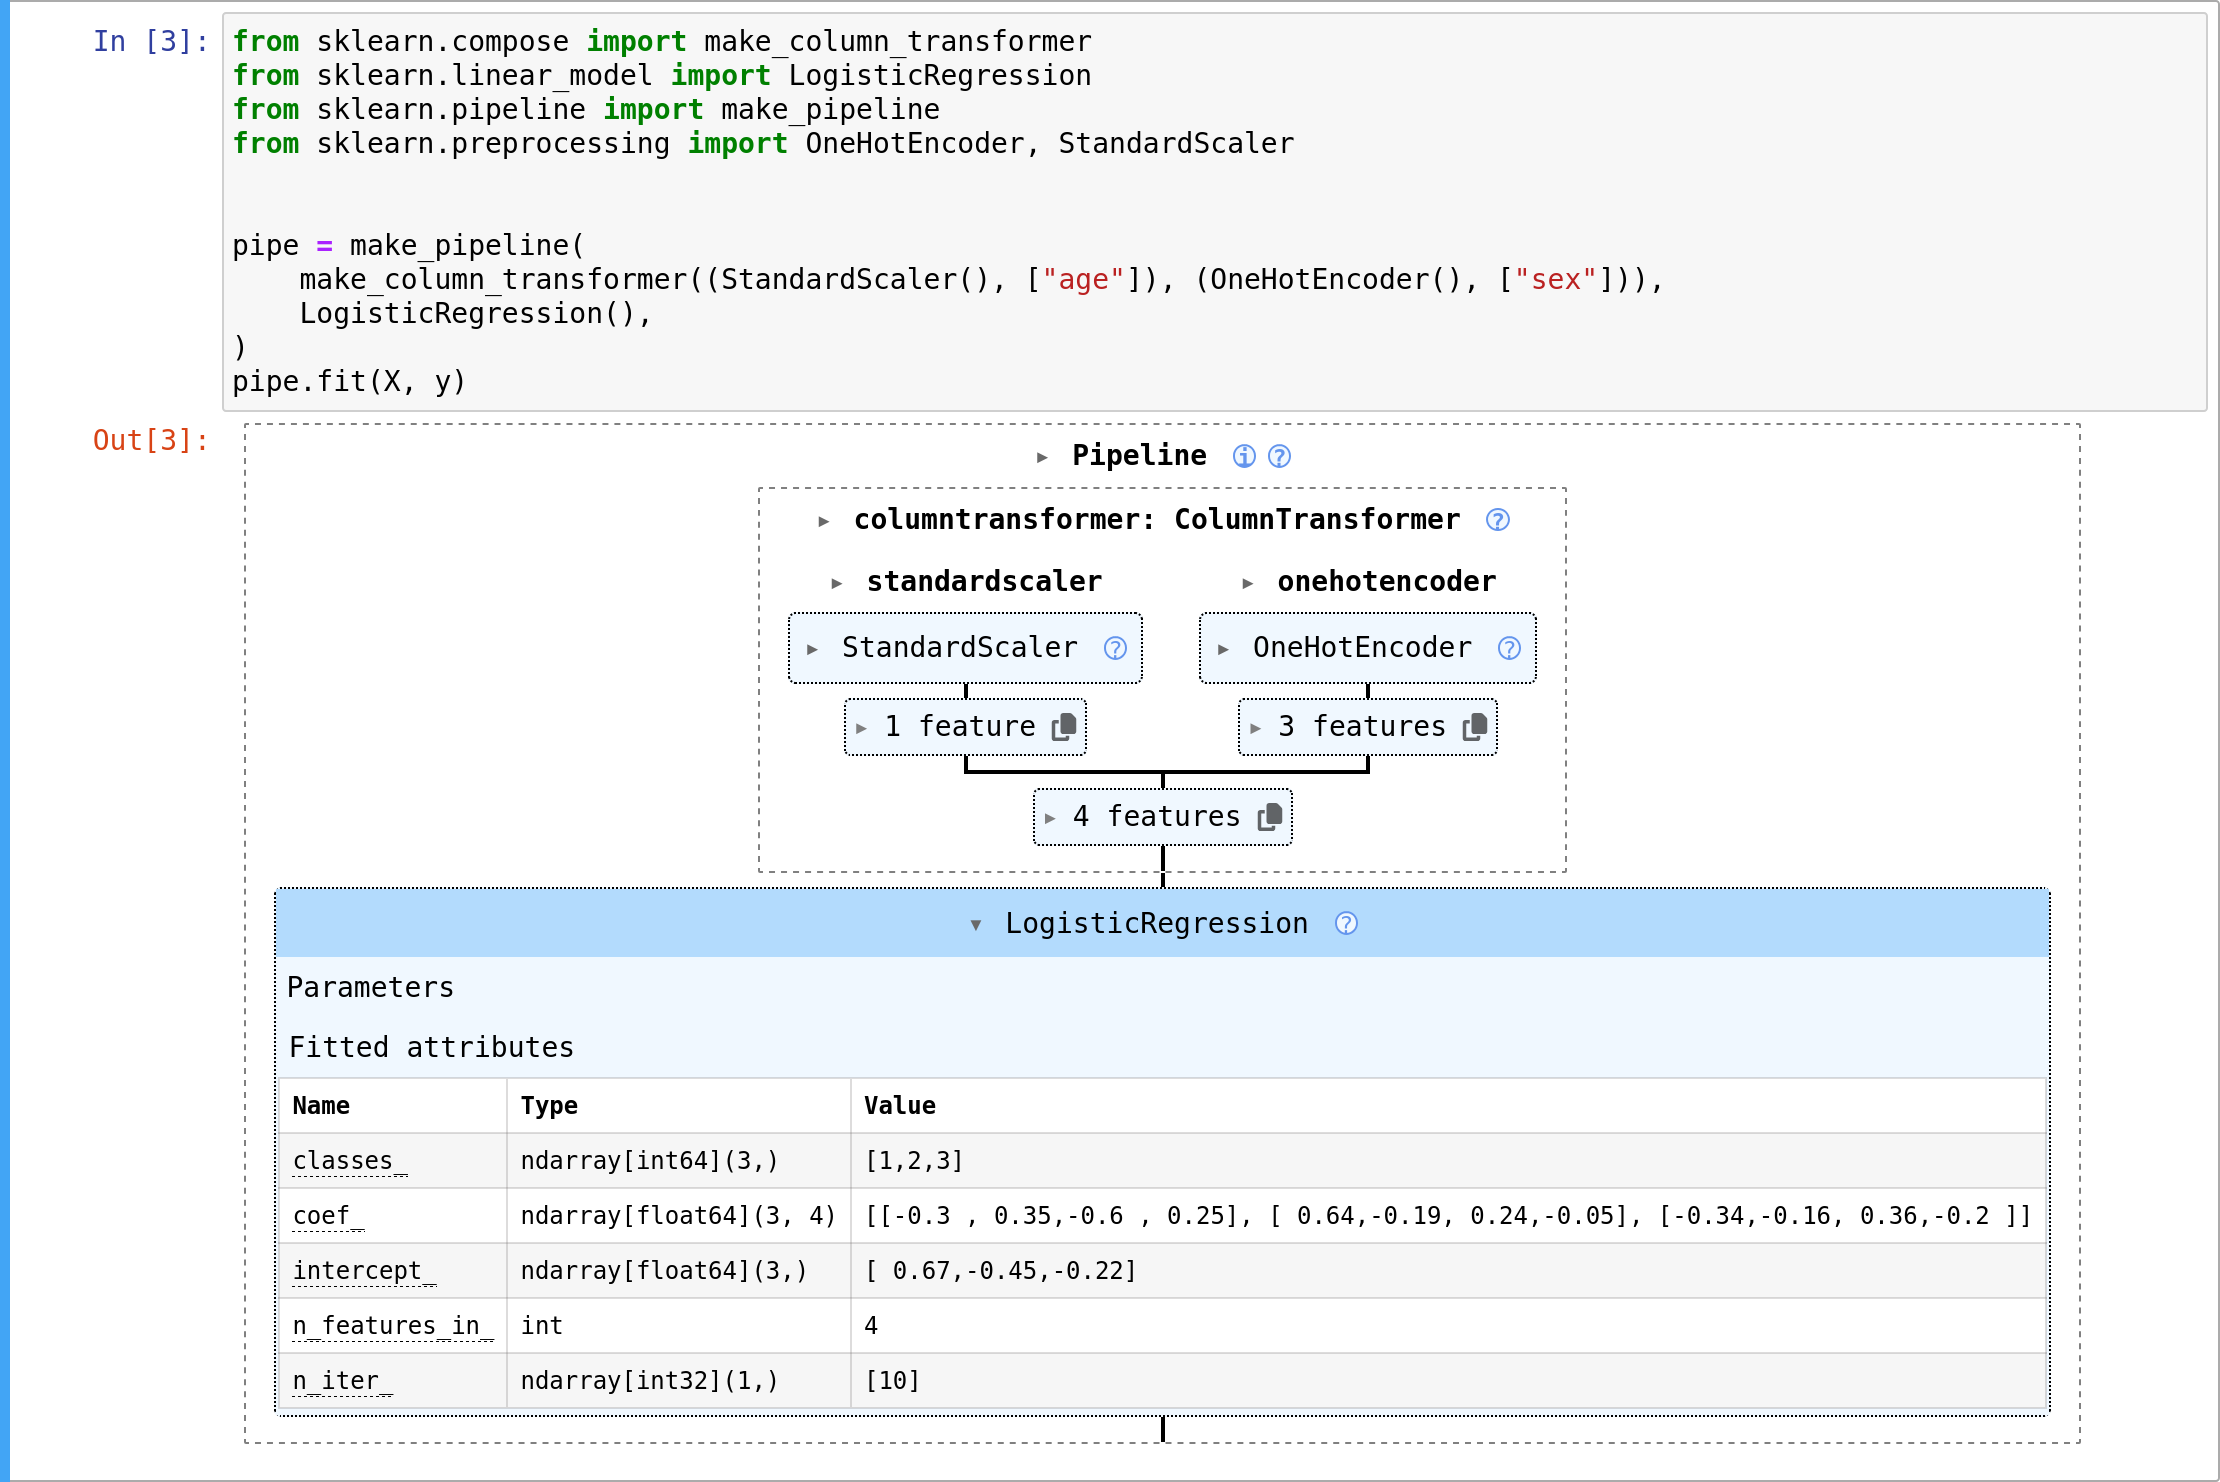
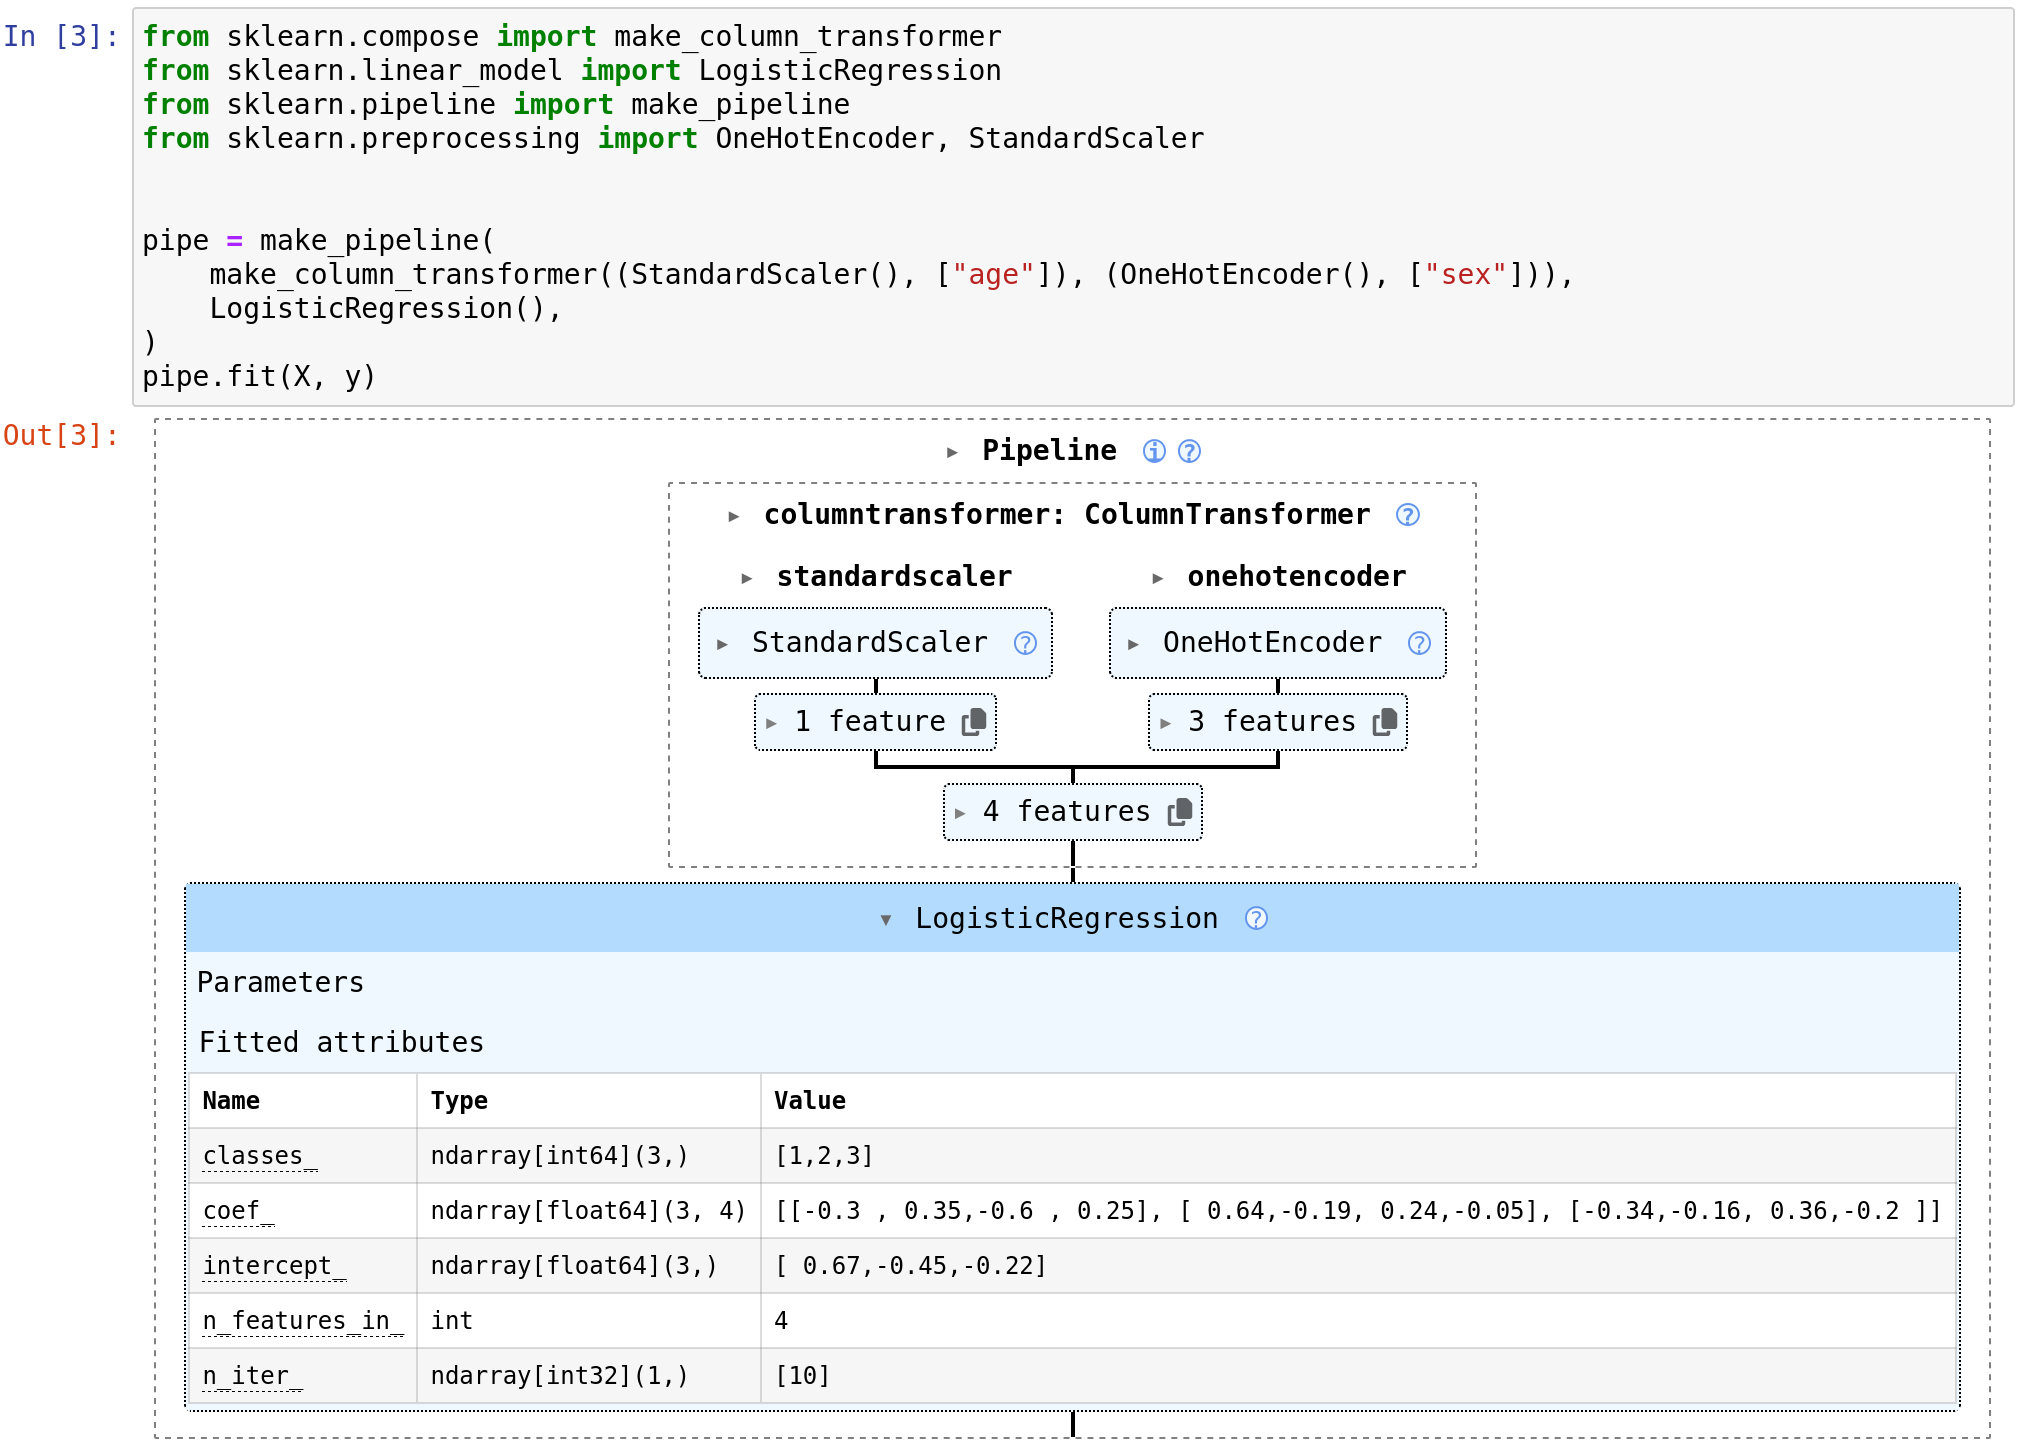
add intro and improve figure

Changed region(s): [[0.0, 0.0, 1.0, 1.0], [0.6546, 0.2784, 0.9352, 0.3093], [0.4676, 0.1856, 0.7481, 0.2165]]

diff --git a/_posts/2026-06-10-release-1-9.md b/_posts/2026-06-10-release-1-9.md
@@ -33,6 +33,13 @@ postauthors:
 </div>
 
 
+Scikit-learn 1.9 release is out, and it comes with solid improvements to
+many existing estimators, making them faster, more stable, handling
+missing values, adding GPU supports... The release also enhances the
+estimator displays in notebooks, and introduces a callback mechanism that
+opens the door to progress bars or advanced monitoring of convergence.
+
+
 ## Improvement: Richer HTML views
 
 The improvements that most will easily view are those on the estimator displays.  
